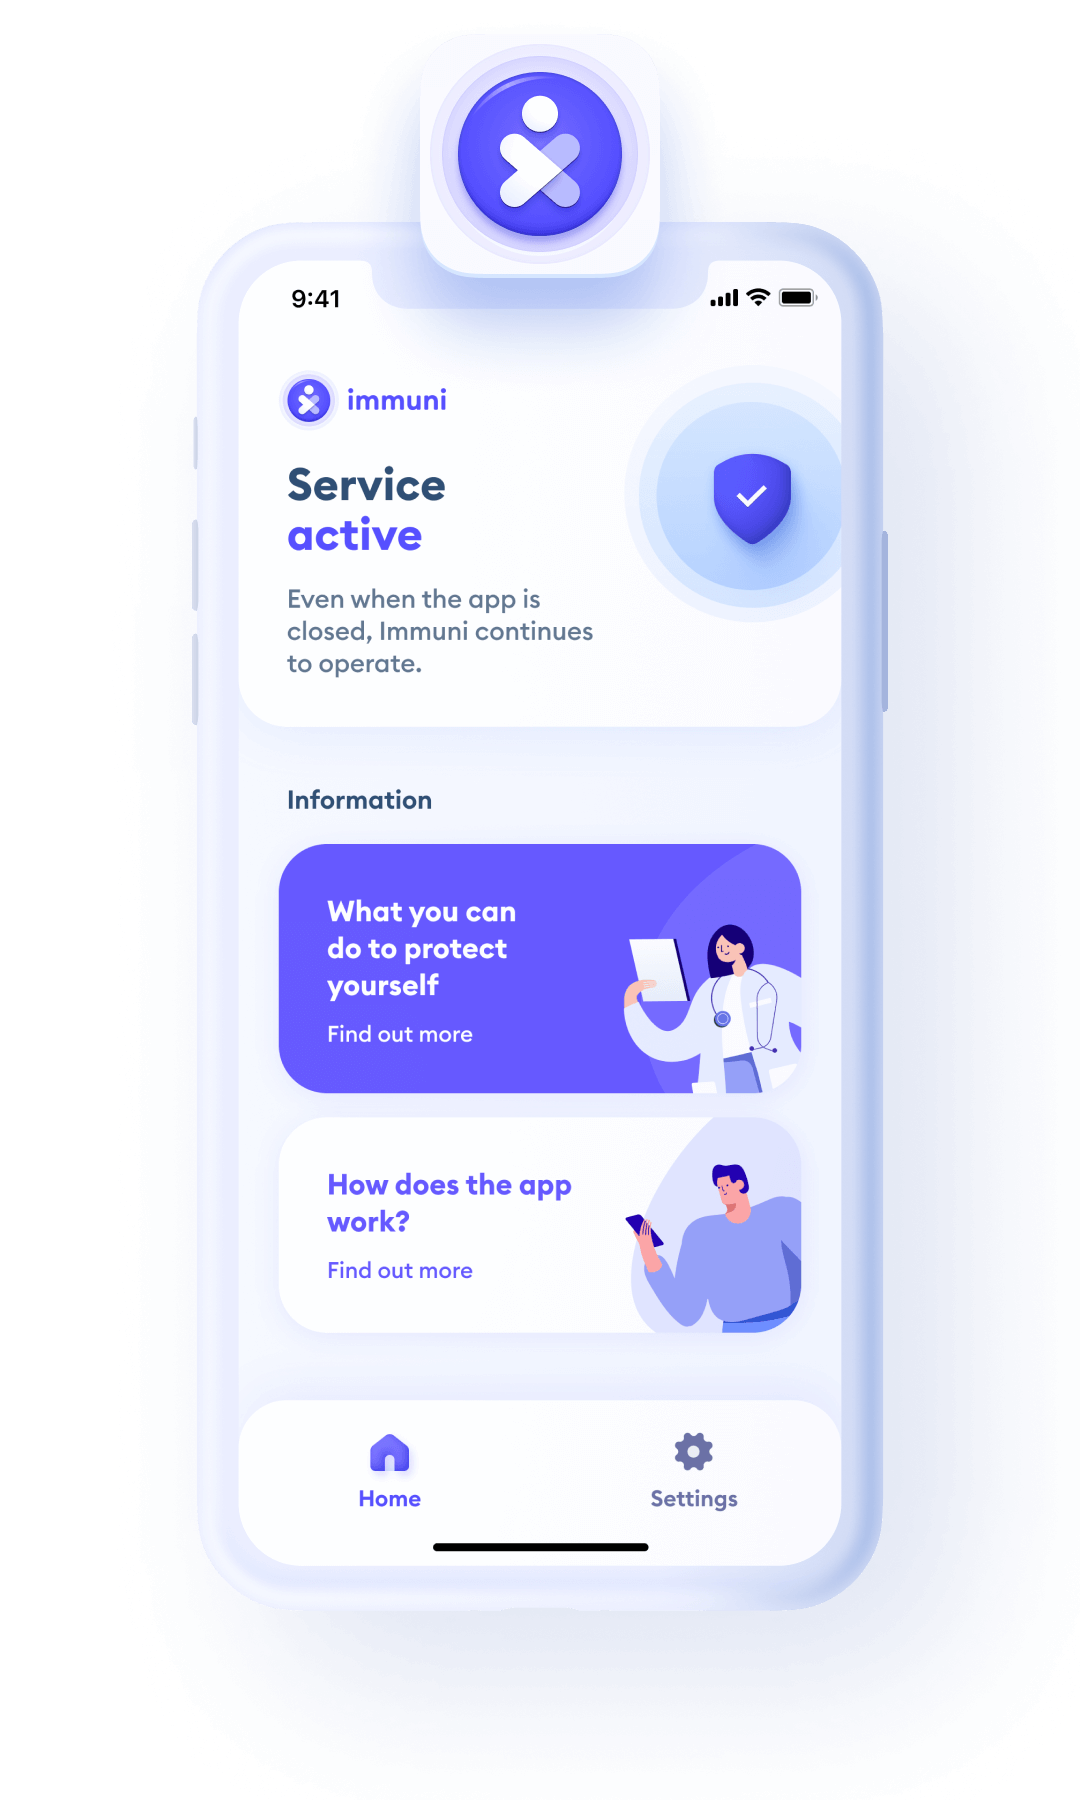
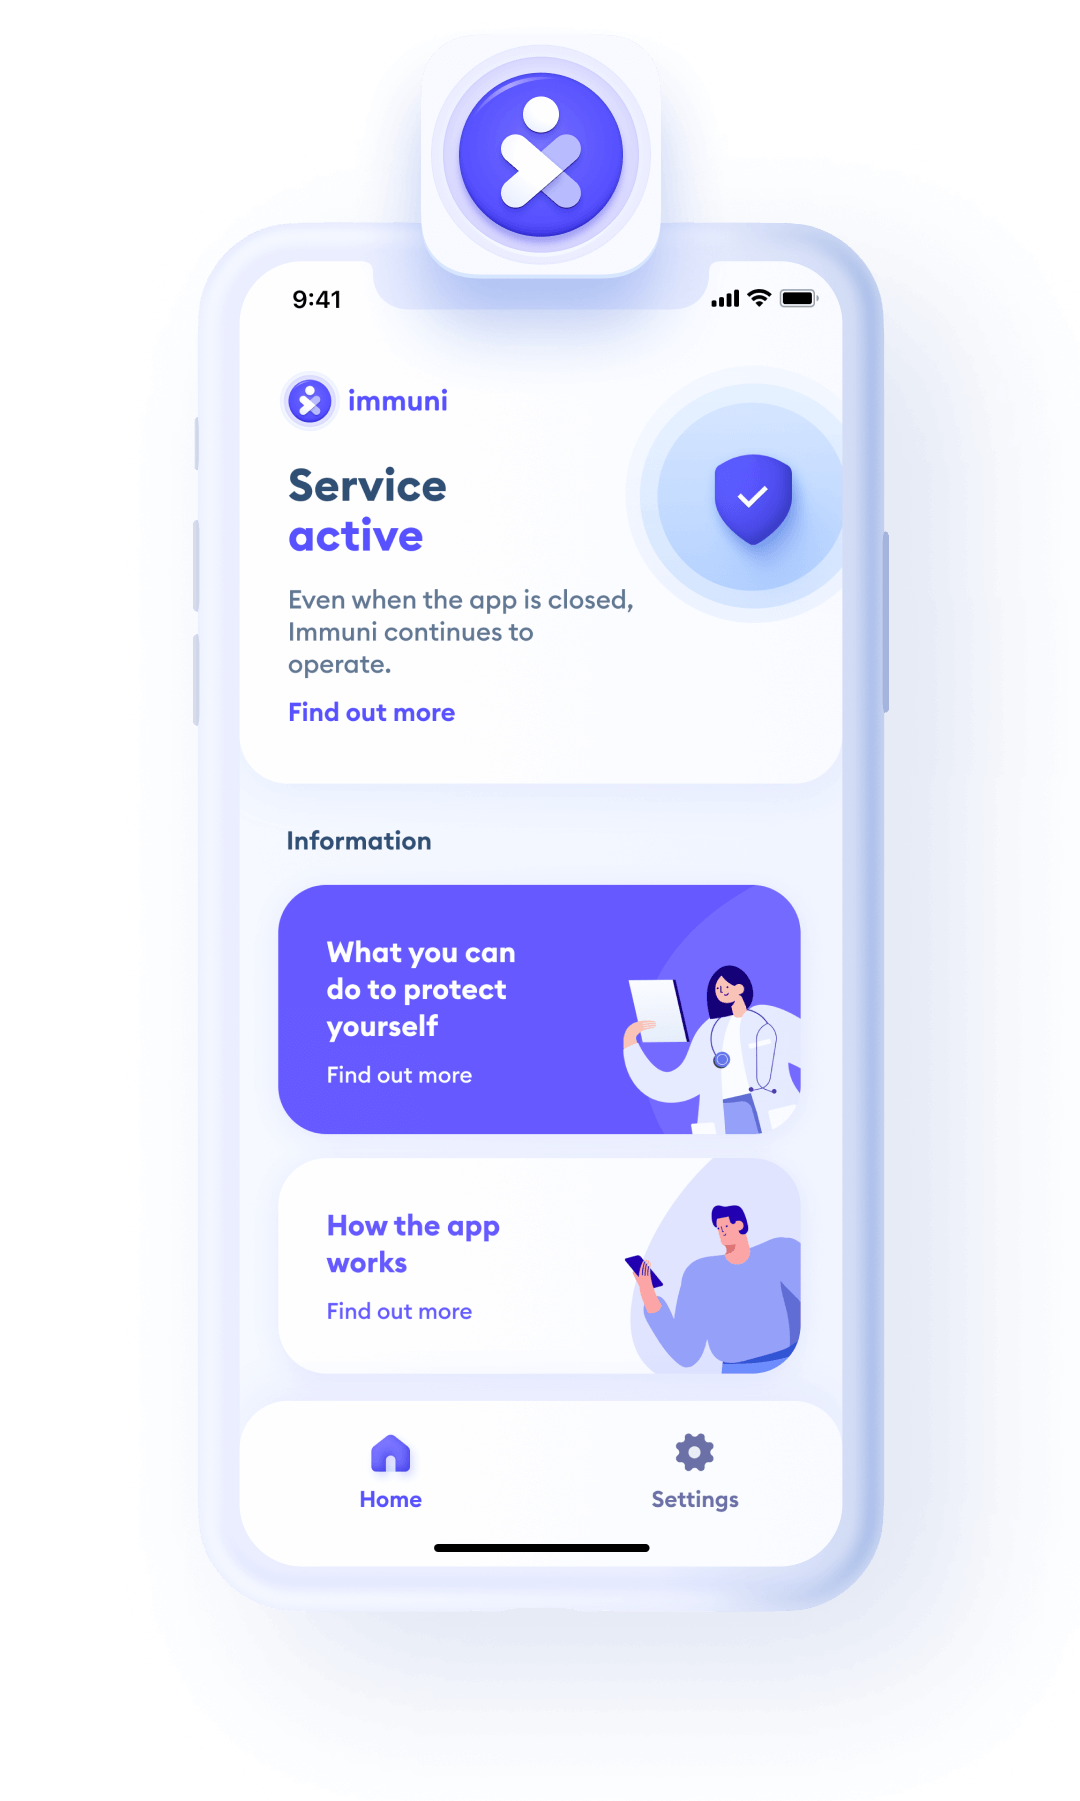
feat: new feat images for fr de es

diff --git a/src/scripts/translation-helper.js b/src/scripts/translation-helper.js
@@ -8,21 +8,27 @@ import * as feat_it from "../assets/img/feat-illustration-it.png";
 import * as feat_it_mobile from "../assets/img/feat-illustration-mobile-it.png";
 import * as feat_en from "../assets/img/feat-illustration-en.png";
 import * as feat_en_mobile from "../assets/img/feat-illustration-mobile-en.png";
+import * as feat_de from "../assets/img/feat-illustration-de.png";
+import * as feat_de_mobile from "../assets/img/feat-illustration-mobile-de.png";
+import * as feat_fr from "../assets/img/feat-illustration-fr.png";
+import * as feat_fr_mobile from "../assets/img/feat-illustration-mobile-fr.png";
+import * as feat_es from "../assets/img/feat-illustration-es.png";
+import * as feat_es_mobile from "../assets/img/feat-illustration-mobile-es.png";
 
 const image = {
   it: feat_it,
   en: feat_en,
-  de: feat_en,
-  fr: feat_en,
-  es: feat_en,
+  de: feat_de,
+  fr: feat_fr,
+  es: feat_es,
 };
 
 const imageMobile = {
   it: feat_it_mobile,
   en: feat_en_mobile,
-  de: feat_en_mobile,
-  fr: feat_en_mobile,
-  es: feat_en_mobile,
+  de: feat_de_mobile,
+  fr: feat_fr_mobile,
+  es: feat_es_mobile,
 };
 
 class Translator {
